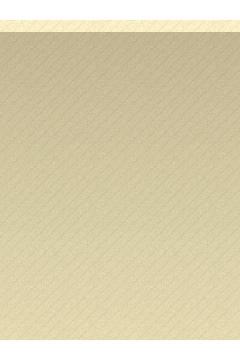
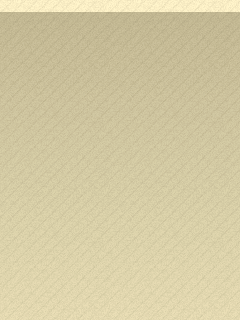
fix strip background aspect ratio

Changed region(s): [[0.0, 0.0, 1.0, 0.0938], [0.0, 0.9375, 1.0, 1.0]]

diff --git a/libs/PhGraphicStrip/PhGraphicStripView.cpp b/libs/PhGraphicStrip/PhGraphicStripView.cpp
@@ -107,7 +107,7 @@ void PhGraphicStripView::paint()
 	float w = this->width();
 
 //    //Draw Backgroung Picture
-	_stripBackgroundImage->setTextureCoordinate(w / h, 1);
+	_stripBackgroundImage->setTextureCoordinate(1.2f * w / h, 1);
 	_stripBackgroundImage->setSize(w, h);
 	_stripBackgroundImage->draw();
 
